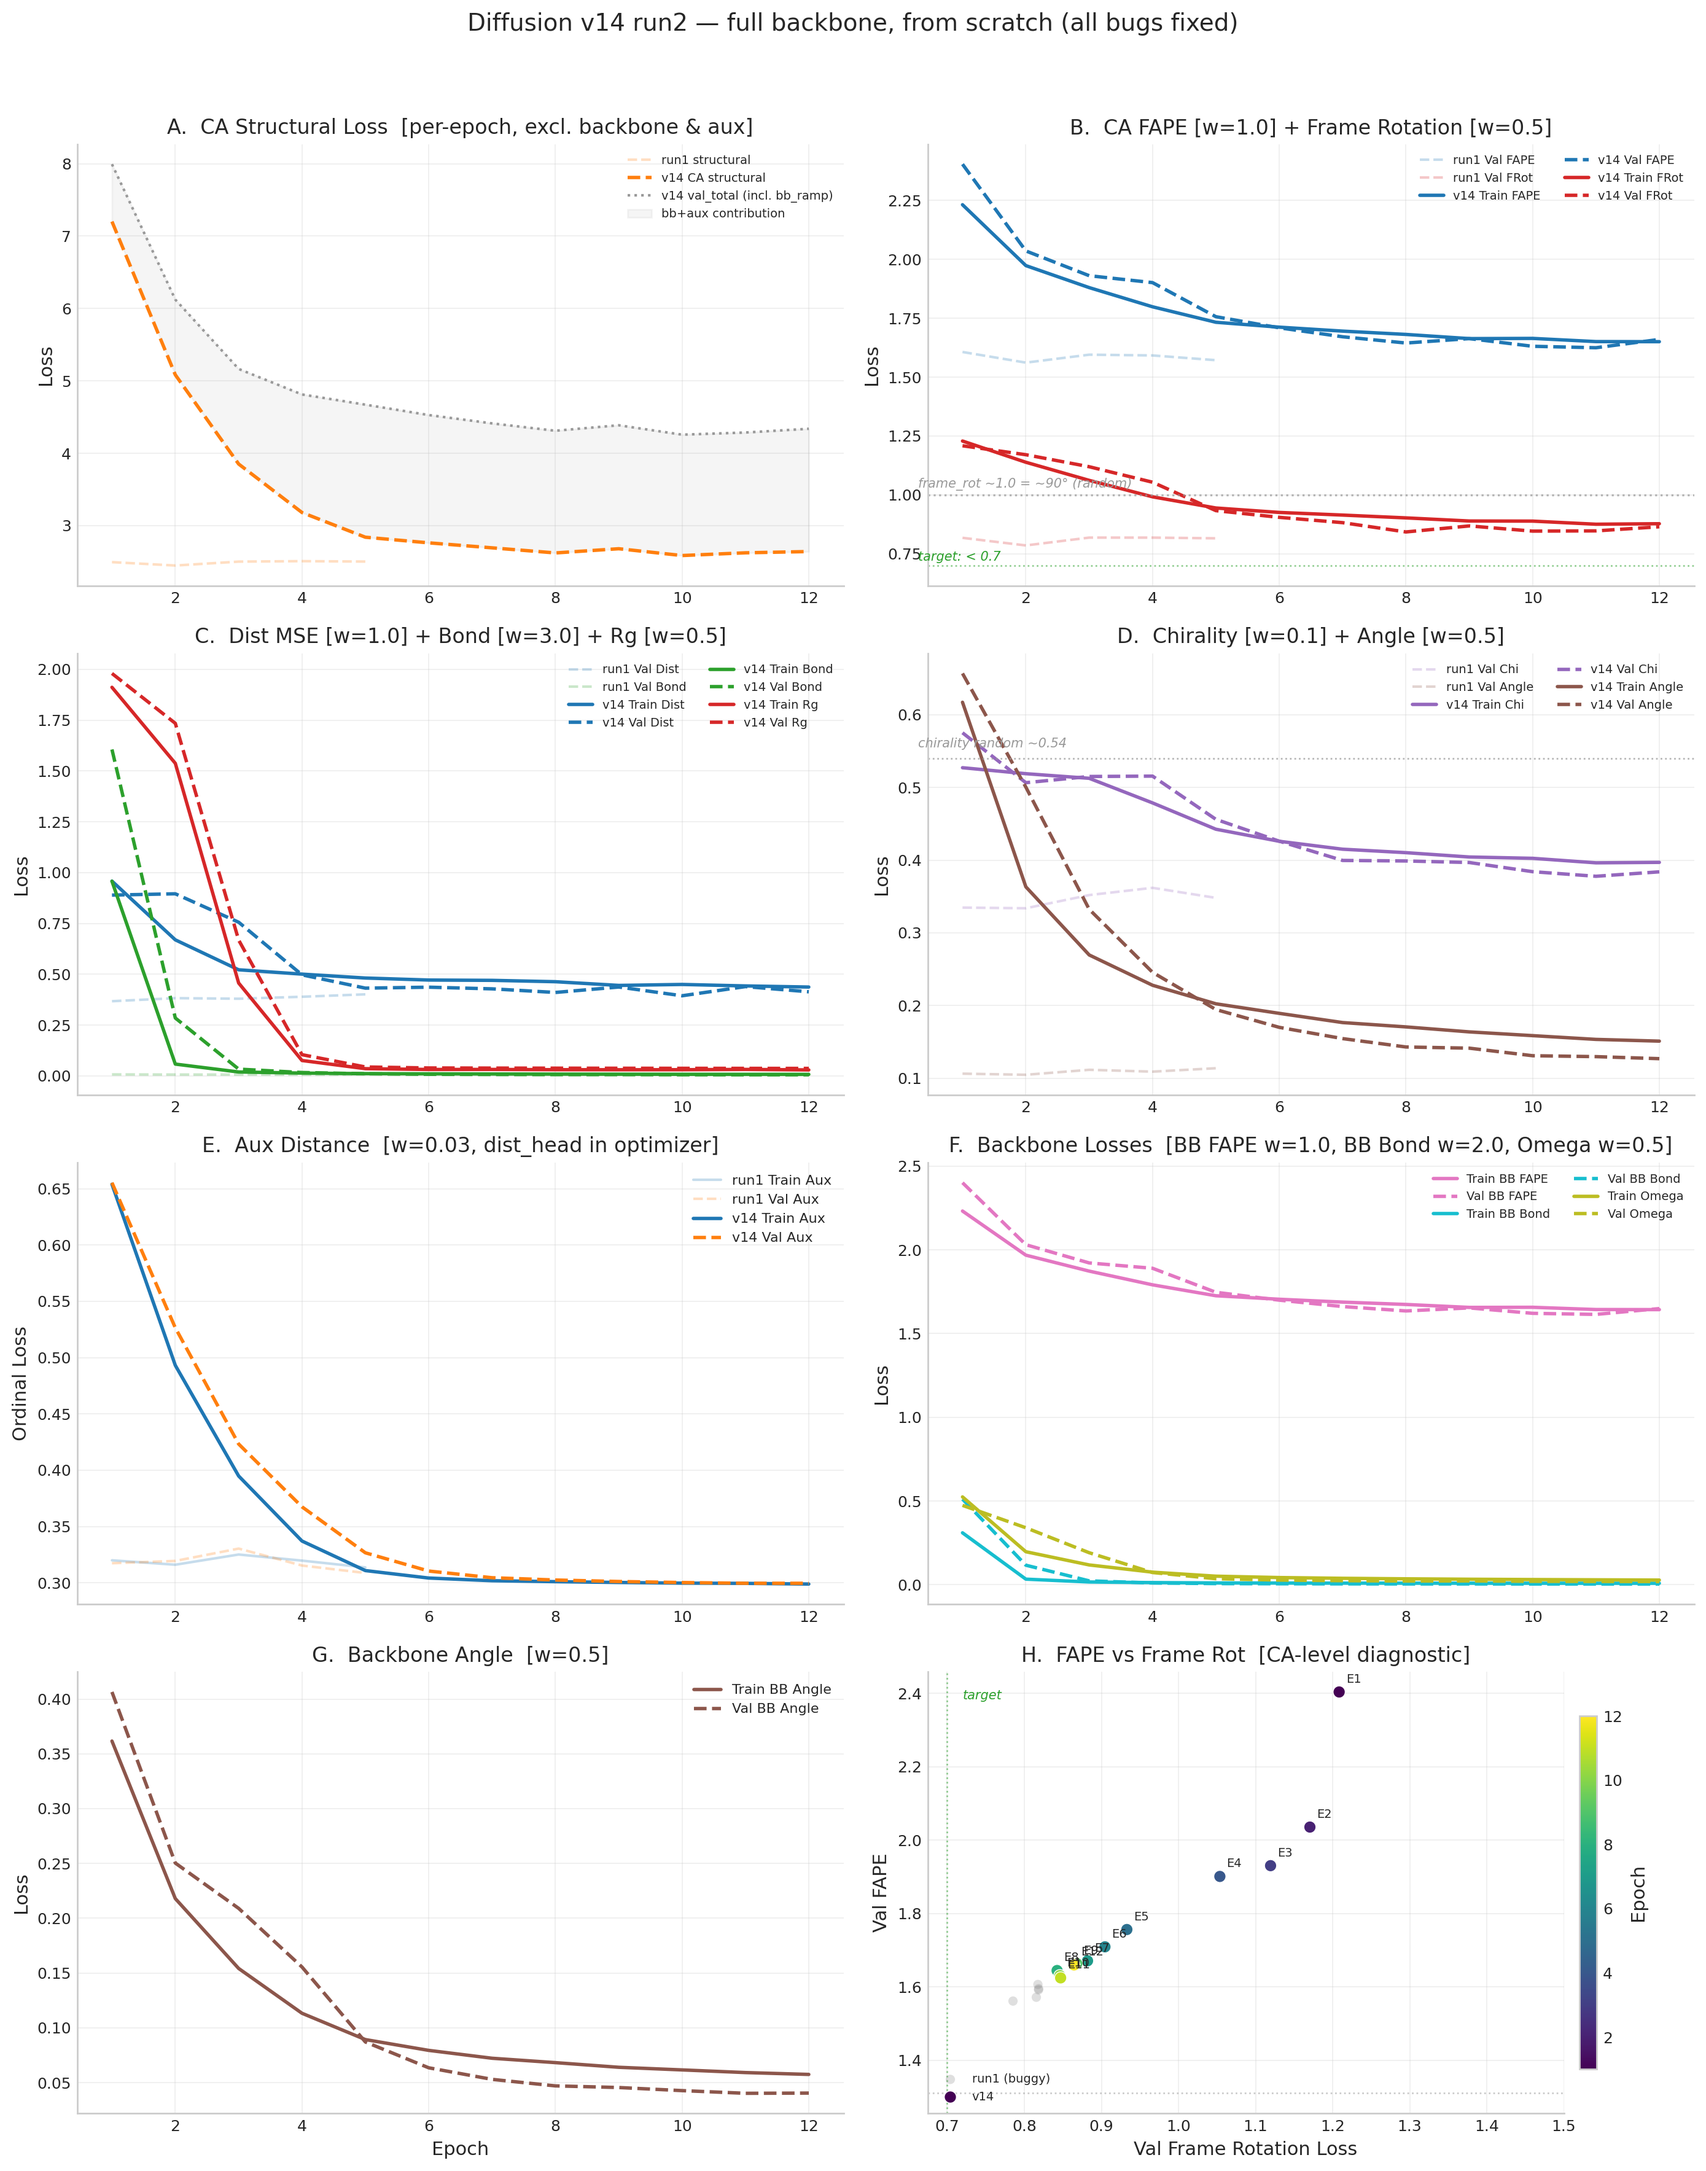
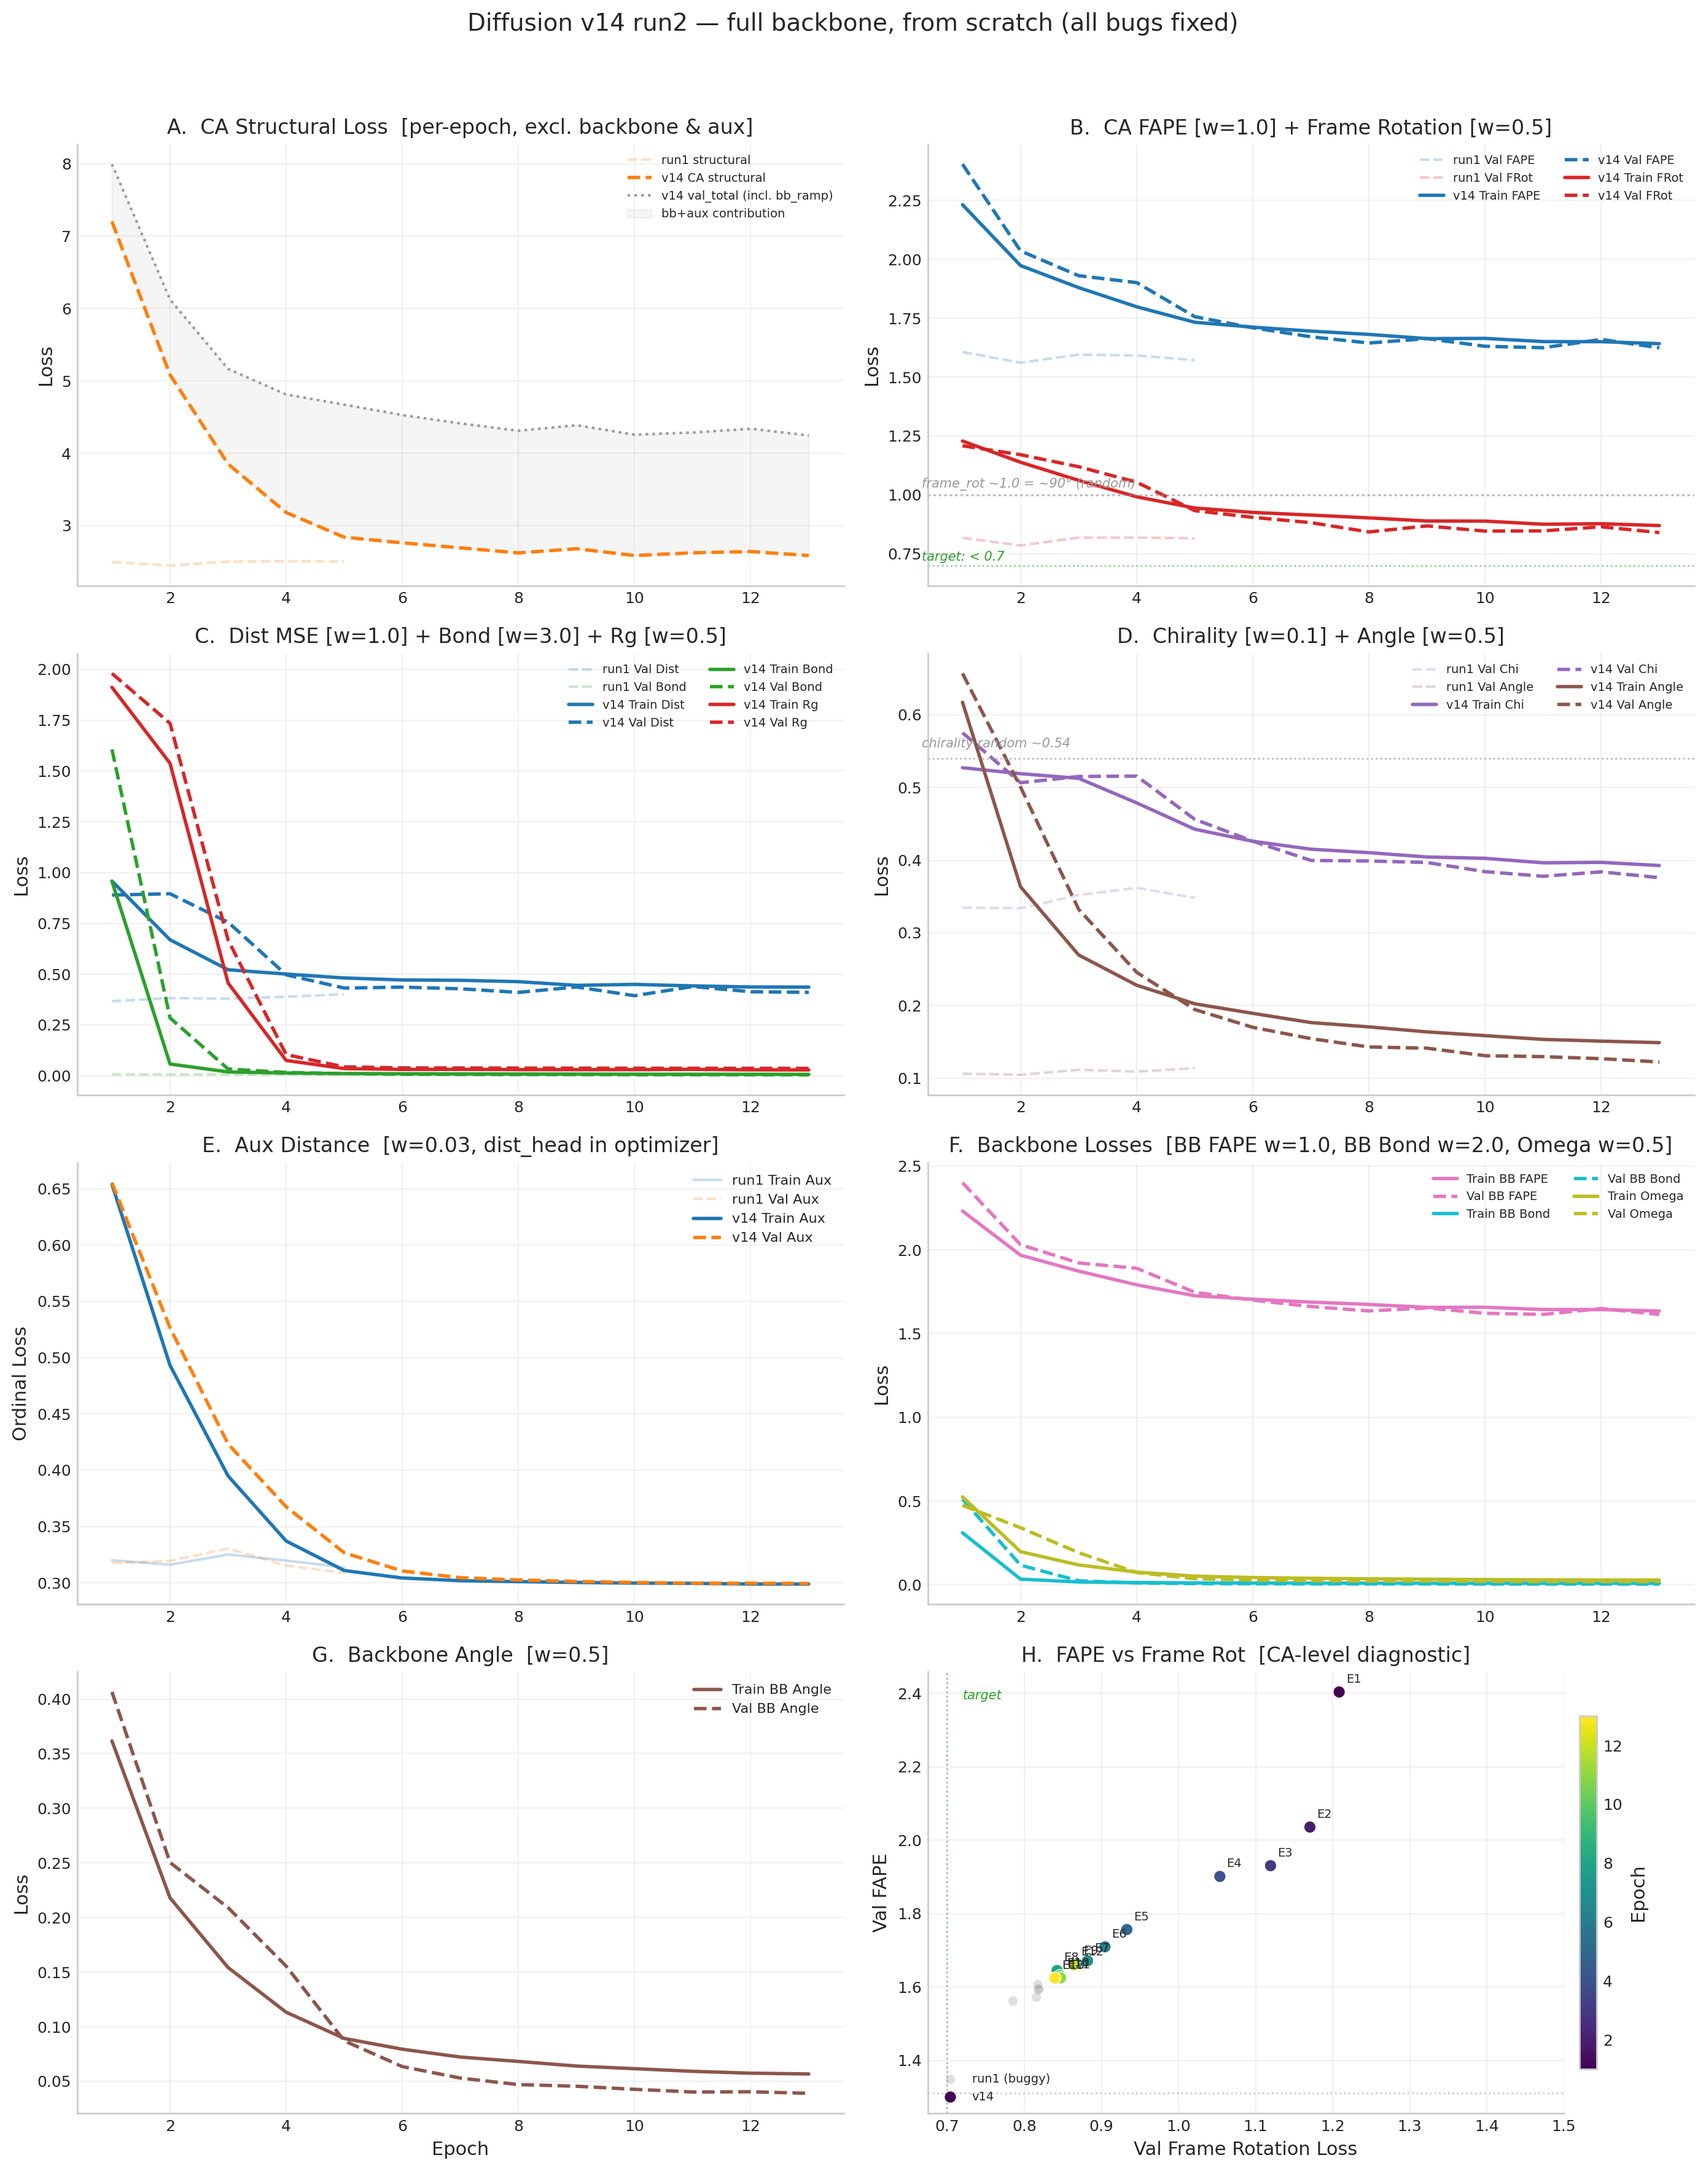
v13b E12 (pat 3/15), v14 E13 (new best 2.587, pat reset)
v13b stuck at 2.599, patience climbing. v14 squeaked past plateau
with marginal improvement (2.5870 -> 2.5867), patience reset to 0.

diff --git a/minifold.html b/minifold.html
@@ -194,7 +194,7 @@
       Full architecture history, training tables, loss functions, and analysis for the protein backbone diffusion model.
     </p>
     <p id="last-updated" style="color: var(--text-secondary); font-size: 13px; margin-bottom: 16px; font-style: italic;">
-      Last updated: Mar 12, 2026 at 4:56 PM PST
+      Last updated: Mar 12, 2026 at 5:15 PM PST
     </p>
 
     <div class="mf-tabs">
@@ -521,8 +521,8 @@
               <td><span class="tag tag-stale">pat 1/15</span></td>
             </tr>
             <tr>
-              <td><strong>11</strong></td>
-              <td style="color: #2ca02c;"><strong>2.599</strong></td>
+              <td>11</td>
+              <td>2.599</td>
               <td>1.700</td>
               <td>0.851</td>
               <td>0.357</td>
@@ -533,6 +533,20 @@
               <td>0.037</td>
               <td>&mdash;</td>
               <td><span class="tag tag-stale">pat 2/15</span></td>
+            </tr>
+            <tr>
+              <td><strong>12</strong></td>
+              <td style="color: #2ca02c;"><strong>2.599</strong></td>
+              <td>1.698</td>
+              <td>0.850</td>
+              <td>0.381</td>
+              <td>0.007</td>
+              <td>0.300</td>
+              <td>0.380</td>
+              <td>0.140</td>
+              <td>0.037</td>
+              <td>&mdash;</td>
+              <td><span class="tag tag-stale">pat 3/15</span></td>
             </tr>
           </tbody>
         </table>
@@ -844,8 +858,8 @@
               <td><span class="tag tag-stale">pat 1/15</span></td>
             </tr>
             <tr>
-              <td><strong>12</strong></td>
-              <td style="color: #2ca02c;"><strong>2.587</strong></td>
+              <td>12</td>
+              <td>2.587</td>
               <td>1.660</td>
               <td>0.865</td>
               <td>0.414</td>
@@ -854,6 +868,18 @@
               <td>0.019</td>
               <td>&mdash;</td>
               <td><span class="tag tag-stale">pat 2/15</span></td>
+            </tr>
+            <tr>
+              <td><strong>13</strong></td>
+              <td style="color: #2ca02c;"><strong>2.587</strong></td>
+              <td>1.624</td>
+              <td>0.840</td>
+              <td>0.411</td>
+              <td>1.614</td>
+              <td>0.004</td>
+              <td>0.019</td>
+              <td>&mdash;</td>
+              <td><span class="tag tag-best">NEW BEST</span></td>
             </tr>
           </tbody>
         </table>
